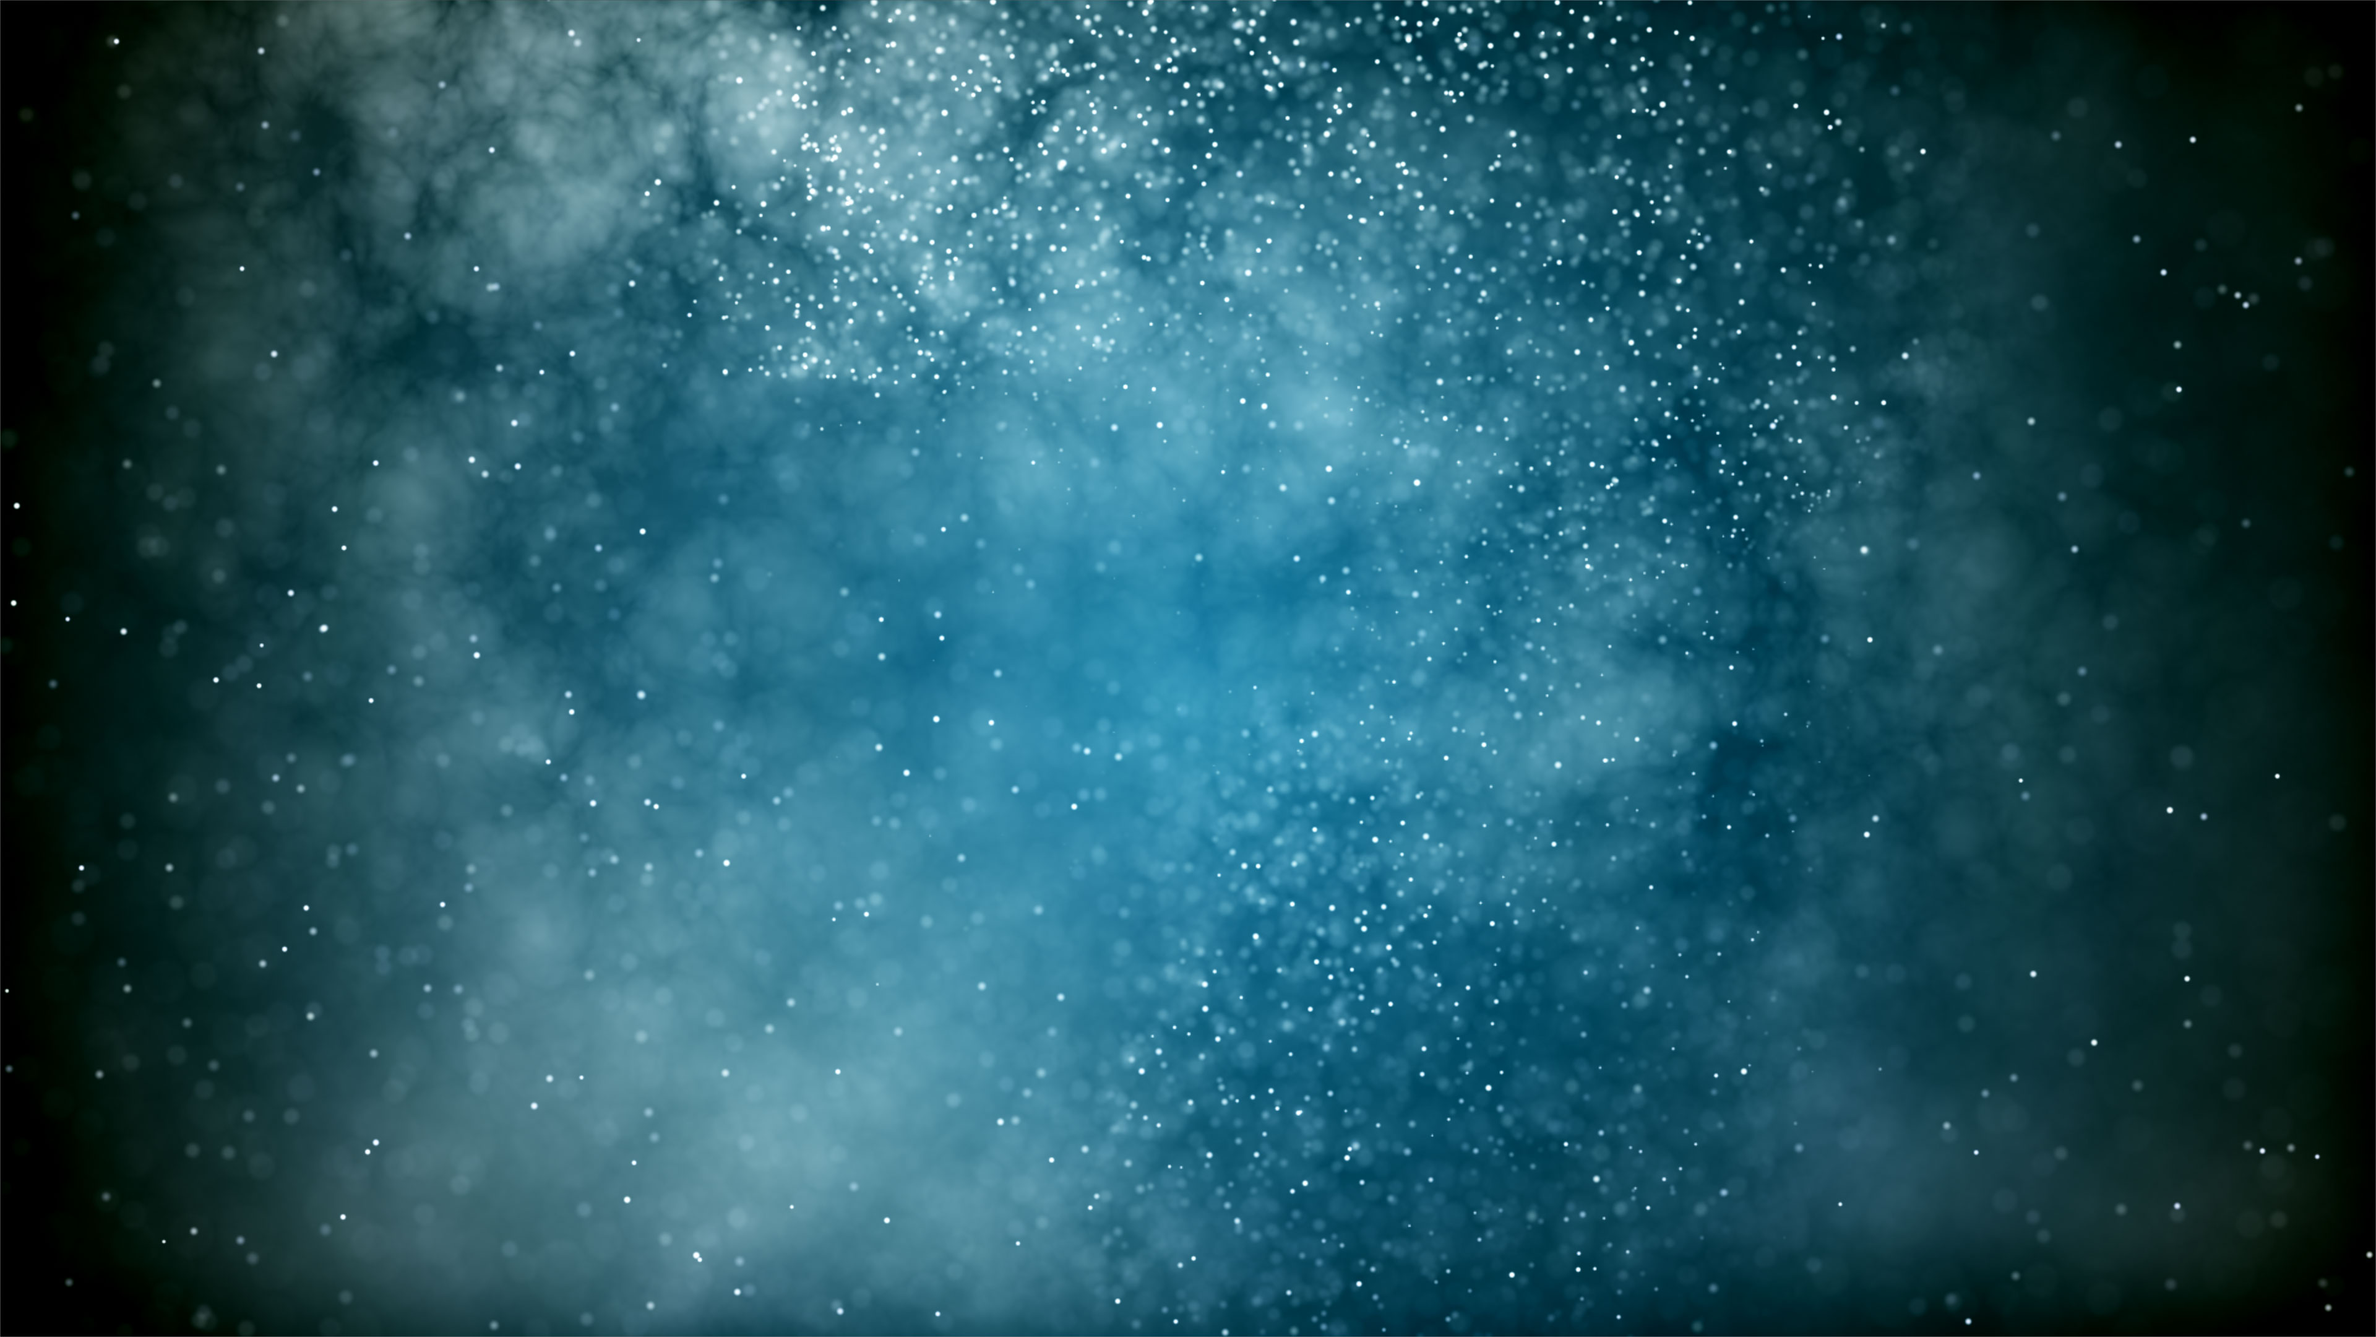
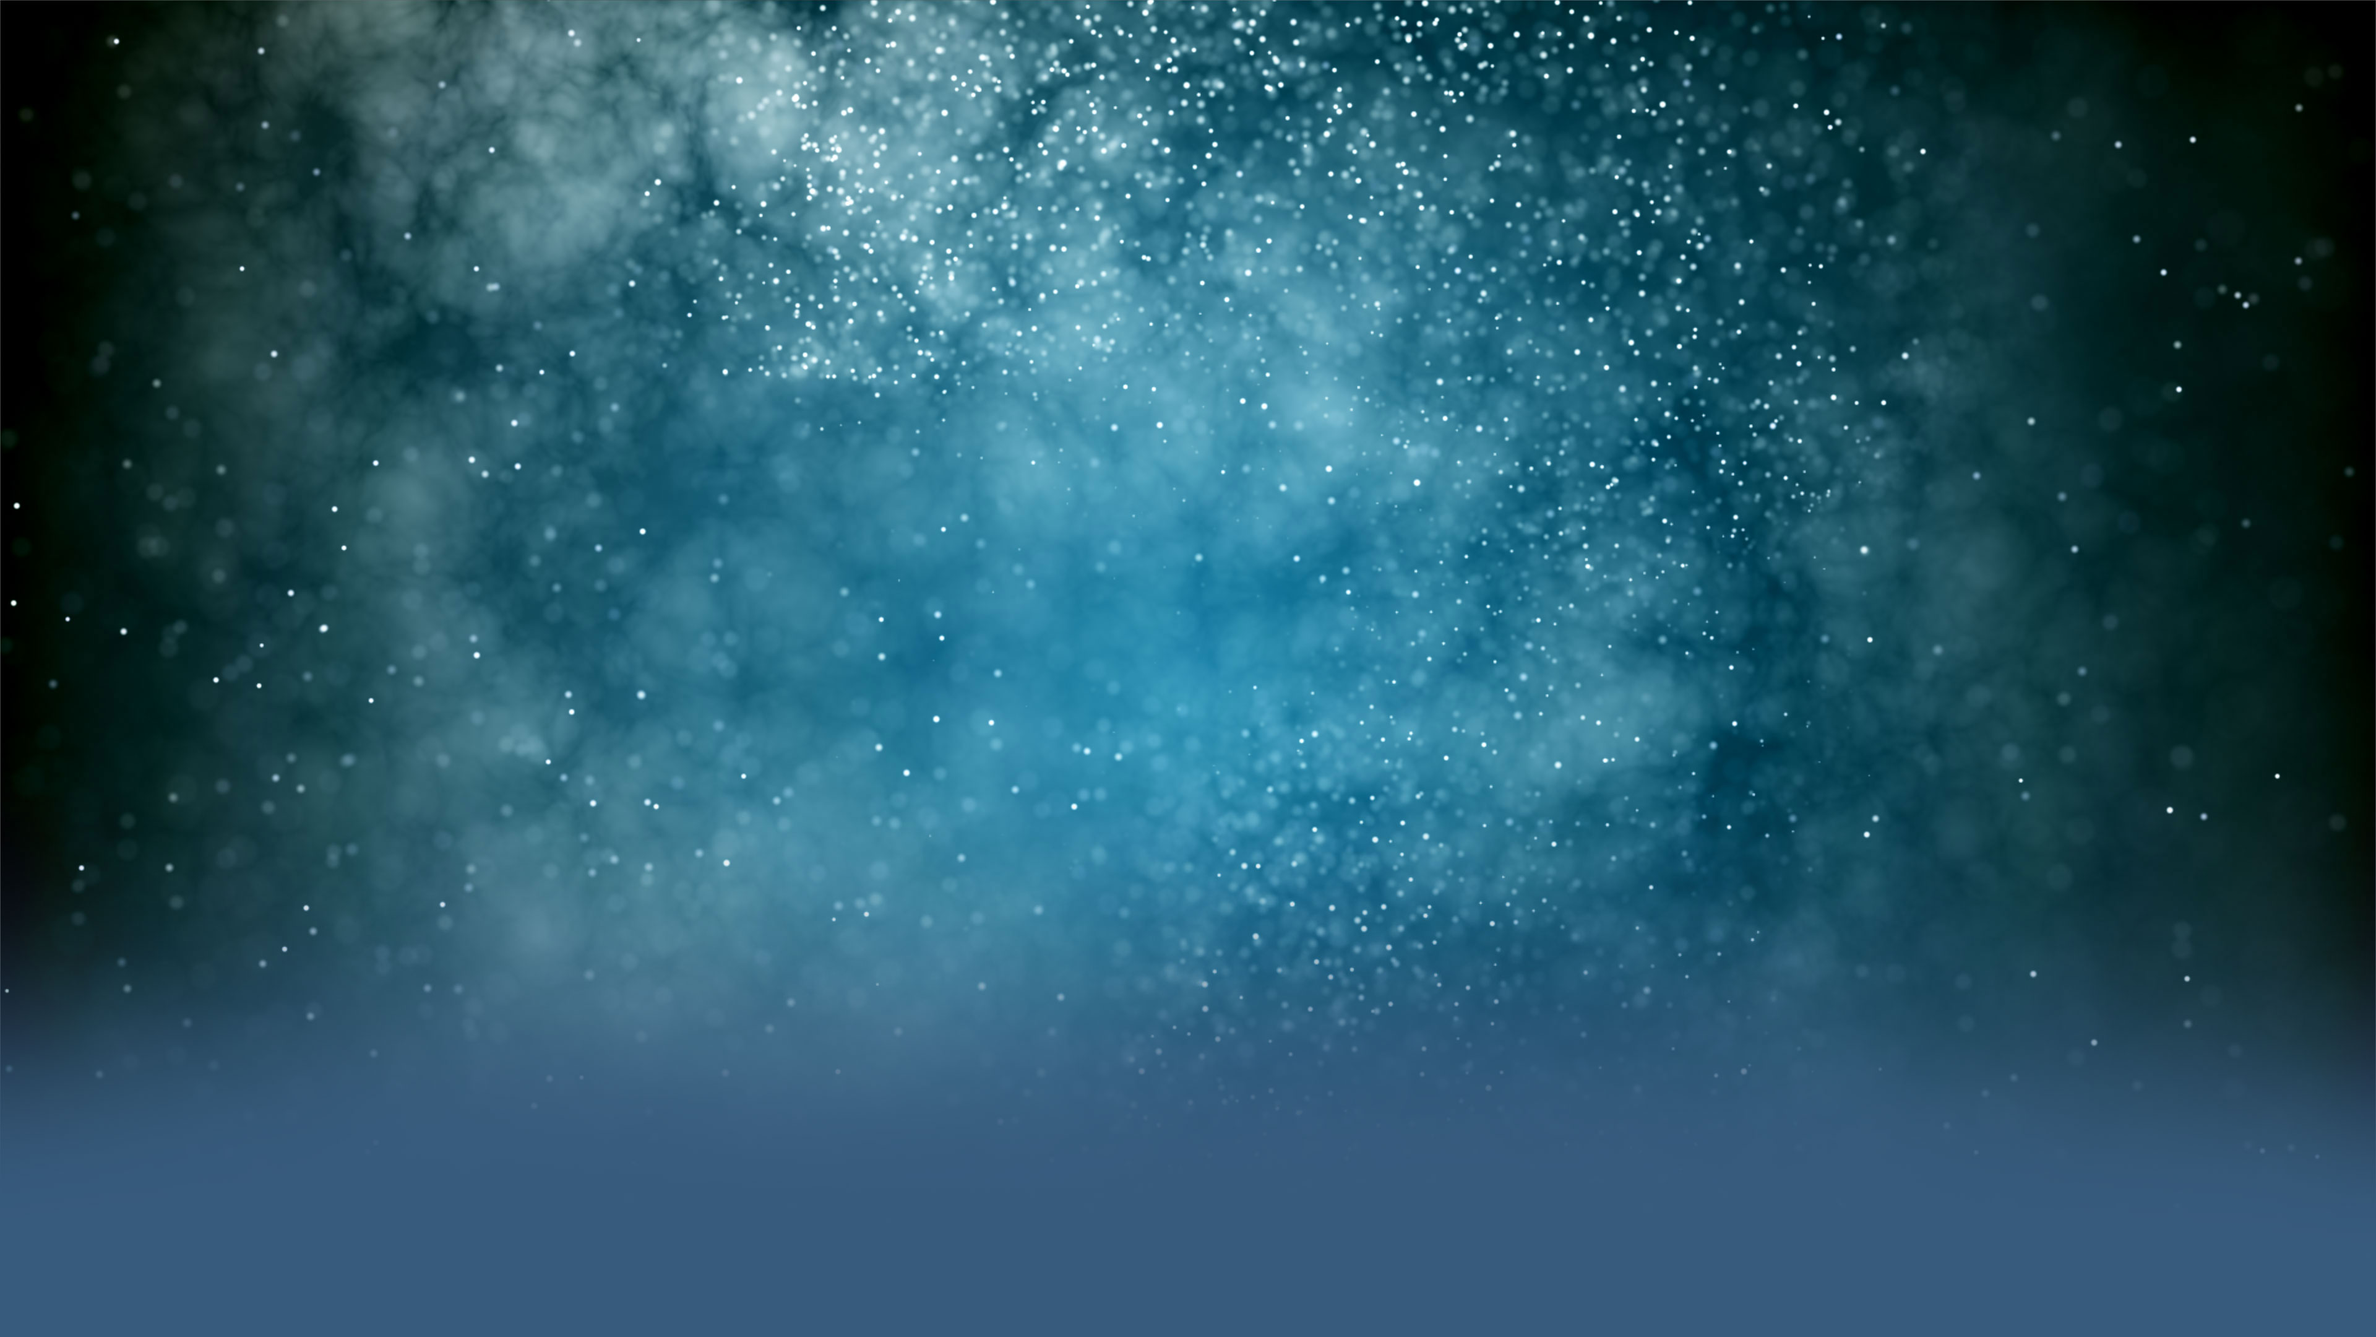
fixed a problem with the about-bg on mobile

Changed region(s): [[0.0, 0.6824, 1.0, 1.0], [0.4688, 0.7134, 0.5, 0.7444]]

diff --git a/dist/css/style.css b/dist/css/style.css
@@ -1,1 +1,1 @@
-button.btn-portfolio,main h3{font-weight:300;text-transform:uppercase}@-webkit-keyframes portfolio{from{top:410px;opacity:0;-webkit-transform:translateY(200px);transform:translateY(200px)}to{top:0;opacity:1;-webkit-transform:translateY(0);transform:translateY(0)}}@keyframes portfolio{from{top:410px;opacity:0;-webkit-transform:translateY(200px);transform:translateY(200px)}to{top:0;opacity:1;-webkit-transform:translateY(0);transform:translateY(0)}}body.modal-open{overflow:visible;padding-right:0!important}body.modal-open #about,body.modal-open #heading-img,body.modal-open #portfolio-items{-webkit-filter:blur(5px);filter:blur(5px)}button.btn-portfolio{background:#365A7D;font-family:'Hind Vadodara',sans-serif;font-size:1.5rem;padding:20px 0;border:none;border-radius:0;transition:background .4s cubic-bezier(.46,.03,.52,.96)}button.btn-portfolio:focus,button.btn-portfolio:hover{background:#4E7CA0;transition:background .4s cubic-bezier(.46,.03,.52,.96)}.no-p{padding:0!important}.no-p:first-child{padding-left:15px!important}.no-p:last-child{padding-right:15px!important}.no-m{margin:0!important}header{position:absolute;top:0;left:0;width:100%;z-index:999}header #site-logo{background:#4E7CA0;height:260px}header #site-logo .logo{height:130px;background:#365A7D;color:#fff;font-size:10rem;line-height:1;text-align:center;padding-top:20px;margin:0 -15px}header #site-logo .description{color:#fff;font-size:4.5rem;font-family:'Oleo Script',cursive;line-height:.8;text-align:center;padding:25px 0 15px}@media screen and (min-width:768px){header #site-logo{height:130px}header #site-logo .logo{margin:0}header #site-logo .description{text-align:right}}footer,main section#about .container-about figure figcaption{text-align:center;color:#fff}header.affix #site-logo{height:160px}header.affix #site-logo .logo{height:80px;font-size:6rem;padding-top:10px}header.affix #site-logo .description{font-size:2.5rem;padding:15px 0}@media screen and (min-width:768px){header.affix #site-logo{height:80px}}main #heading-img .heading-img-img img,main section#portfolio-items img{width:100%;height:auto}main{margin:200px 0 0}main h3,main h4,main h5,main p,main span{font-family:'Hind Vadodara',sans-serif}main h2{color:#fff;font-size:4.5rem;font-family:'Oleo Script',cursive;line-height:.8}main h3{font-size:1.5rem;line-height:1.4}main #heading-img .heading-img-img{margin:0 -15px}main section#portfolio-items{margin-bottom:80px}main section#portfolio-items .portfolio-item{position:relative;top:0;background:#7094AE;margin:40px 0 0;box-shadow:-8px 24px 30px -2px rgba(0,0,0,.3);transition:box-shadow .4s cubic-bezier(.46,.03,.52,.96);-webkit-animation-name:portfolio;animation-name:portfolio;-webkit-animation-duration:3s;animation-duration:3s;-webkit-animation-delay:0s;animation-delay:0s;-webkit-animation-timing-function:cubic-bezier(.165,.84,.44,1);animation-timing-function:cubic-bezier(.165,.84,.44,1)}@media screen and (min-width:768px){main section#portfolio-items .portfolio-item{margin:-75px 0 0;box-shadow:-30px 24px 30px -2px rgba(0,0,0,.3)}}main section#portfolio-items .portfolio-item figure figcaption{padding:1.5rem}main section#portfolio-items .portfolio-item figure figcaption h3{color:#fff;text-align:center;margin:0;padding:0}main section#portfolio-items .portfolio-item:focus,main section#portfolio-items .portfolio-item:hover{box-shadow:-7px 6px 10px -2px rgba(0,0,0,.4);transition:box-shadow .4s cubic-bezier(.46,.03,.52,.96)}main section#about .container-about{min-height:600px;padding:50px 0;background-image:url(../img/bg/about-bg-450-2x.jpg);background-position:center center;background-repeat:no-repeat;background-attachment:fixed;background-size:cover}@media screen and (min-width:450px){main section#about .container-about{background-image:url(../img/bg/about-bg-768-2x.jpg)}}@media screen and (min-width:768px){main section#about .container-about{background-image:url(../img/bg/about-bg-992-2x.jpg)}}@media screen and (min-width:992px){main section#about .container-about{background-image:url(../img/bg/about-bg-1200-2x.jpg)}}main section#about .container-about p.about-text{padding:50px;background:#fff;font-size:1.7rem;line-height:3rem;box-shadow:-30px 24px 30px -2px rgba(0,0,0,.3);transition:box-shadow .4s cubic-bezier(.46,.03,.52,.96)}main section#about .container-about p.about-text:hover{box-shadow:-7px 6px 10px -2px rgba(0,0,0,.4);transition:box-shadow .4s cubic-bezier(.46,.03,.52,.96)}main section#about .container-about figure{width:70%;background:#7094AE;padding:20px;margin:0 auto;box-shadow:-30px 24px 30px -2px rgba(0,0,0,.3);transition:box-shadow .4s cubic-bezier(.46,.03,.52,.96)}@media screen and (min-width:500px){main section#about .container-about figure{width:50%}}main .modal img,main section#about .container-about figure img{width:100%;height:auto}main section#about .container-about figure:hover{box-shadow:-7px 6px 10px -2px rgba(0,0,0,.4);transition:box-shadow .4s cubic-bezier(.46,.03,.52,.96)}footer a.social-icons,footer a.social-icons:hover{transition:color .4s cubic-bezier(.46,.03,.52,.96)}@media screen and (min-width:768px){main section#about .container-about figure{width:100%}main{margin-top:130px}}main .modal .modal-dialog{margin:60px auto}main .modal .modal-dialog .modal-content{border:none}main .modal .modal-dialog .modal-content .modal-header{background:#365A7D;padding:25px;border-bottom:none}main .modal .modal-dialog .modal-content .modal-header h4.modal-title{color:#fff;font-weight:300;text-transform:uppercase}main .modal .modal-dialog .modal-content .modal-header .close{float:right;font-size:50px;font-weight:700;line-height:.5;color:#fff;text-shadow:none;filter:alpha(opacity=20);opacity:1;margin-left:1.5rem}main .modal .modal-dialog .modal-content .modal-body{padding:0}main .modal .modal-dialog .modal-content .modal-body .features-description{font-size:1.6rem;padding:25px}footer{background:#7094AE}footer h1,footer h2,footer h3,footer h4,footer h5,footer p,footer span{font-family:'Hind Vadodara',sans-serif}footer p.made-with{background:#365A7D;font-size:1.5rem;padding:35px 0;margin:0}footer a.social-icons{color:#fff;font-size:4rem}footer a.social-icons:hover{color:#7094AE}footer a.social-icons .btn-social-icon{padding:70px 0}footer a.social-icons .btn-social-icon.btn-git{background:#365A7D;transition:background .4s cubic-bezier(.46,.03,.52,.96)}footer a.social-icons .btn-social-icon.btn-git:hover{background:#4E7CA0;transition:background .4s cubic-bezier(.46,.03,.52,.96)}footer a.social-icons .btn-social-icon.btn-xing{background:#7094AE;transition:background .4s cubic-bezier(.46,.03,.52,.96)}footer a.social-icons .btn-social-icon.btn-linkedin,footer a.social-icons .btn-social-icon.btn-xing:hover{background:#4E7CA0;transition:background .4s cubic-bezier(.46,.03,.52,.96)}footer a.social-icons .btn-social-icon.btn-linkedin:hover{background:#365A7D;transition:background .4s cubic-bezier(.46,.03,.52,.96)}
+button.btn-portfolio,main h3{font-weight:300;text-transform:uppercase}@-webkit-keyframes portfolio{from{top:410px;opacity:0;-webkit-transform:translateY(200px);transform:translateY(200px)}to{top:0;opacity:1;-webkit-transform:translateY(0);transform:translateY(0)}}@keyframes portfolio{from{top:410px;opacity:0;-webkit-transform:translateY(200px);transform:translateY(200px)}to{top:0;opacity:1;-webkit-transform:translateY(0);transform:translateY(0)}}body.modal-open{overflow:visible;padding-right:0!important}body.modal-open #about,body.modal-open #heading-img,body.modal-open #portfolio-items{-webkit-filter:blur(5px);filter:blur(5px)}button.btn-portfolio{background:#365A7D;font-family:'Hind Vadodara',sans-serif;font-size:1.5rem;padding:20px 0;border:none;border-radius:0;transition:background .4s cubic-bezier(.46,.03,.52,.96)}button.btn-portfolio:focus,button.btn-portfolio:hover{background:#4E7CA0;transition:background .4s cubic-bezier(.46,.03,.52,.96)}.no-p{padding:0!important}.no-p:first-child{padding-left:15px!important}.no-p:last-child{padding-right:15px!important}.no-m{margin:0!important}header{position:absolute;top:0;left:0;width:100%;z-index:999}header #site-logo{background:#4E7CA0;height:260px}header #site-logo .logo{height:130px;background:#365A7D;color:#fff;font-size:10rem;line-height:1;text-align:center;padding-top:20px;margin:0 -15px}header #site-logo .description{color:#fff;font-size:4.5rem;font-family:'Oleo Script',cursive;line-height:.8;text-align:center;padding:25px 0 15px}@media screen and (min-width:768px){header #site-logo{height:130px}header #site-logo .logo{margin:0}header #site-logo .description{text-align:right}}footer,main section#about .container-about figure figcaption{text-align:center;color:#fff}header.affix #site-logo{height:160px}header.affix #site-logo .logo{height:80px;font-size:6rem;padding-top:10px}header.affix #site-logo .description{font-size:2.5rem;padding:15px 0}@media screen and (min-width:768px){header.affix #site-logo{height:80px}}main #heading-img .heading-img-img img,main section#portfolio-items img{width:100%;height:auto}main{margin:200px 0 0}main h3,main h4,main h5,main p,main span{font-family:'Hind Vadodara',sans-serif}main h2{color:#fff;font-size:4.5rem;font-family:'Oleo Script',cursive;line-height:.8}main h3{font-size:1.5rem;line-height:1.4}main #heading-img .heading-img-img{margin:0 -15px}main section#portfolio-items{margin-bottom:80px}main section#portfolio-items .portfolio-item{position:relative;top:0;background:#7094AE;margin:40px 0 0;box-shadow:-8px 24px 30px -2px rgba(0,0,0,.3);transition:box-shadow .4s cubic-bezier(.46,.03,.52,.96);-webkit-animation-name:portfolio;animation-name:portfolio;-webkit-animation-duration:3s;animation-duration:3s;-webkit-animation-delay:0s;animation-delay:0s;-webkit-animation-timing-function:cubic-bezier(.165,.84,.44,1);animation-timing-function:cubic-bezier(.165,.84,.44,1)}@media screen and (min-width:768px){main section#portfolio-items .portfolio-item{margin:-75px 0 0;box-shadow:-30px 24px 30px -2px rgba(0,0,0,.3)}}main section#portfolio-items .portfolio-item figure figcaption{padding:1.5rem}main section#portfolio-items .portfolio-item figure figcaption h3{color:#fff;text-align:center;margin:0;padding:0}main section#portfolio-items .portfolio-item:focus,main section#portfolio-items .portfolio-item:hover{box-shadow:-7px 6px 10px -2px rgba(0,0,0,.4);transition:box-shadow .4s cubic-bezier(.46,.03,.52,.96)}main section#about .container-about{min-height:600px;padding:50px 0;background-image:url(../img/bg/about-bg-450-2x.jpg);background-color:#365A7D;background-position:top center;background-repeat:no-repeat;background-attachment:fixed;background-size:cover}@media screen and (min-width:450px){main section#about .container-about{background-image:url(../img/bg/about-bg-768-2x.jpg)}}@media screen and (min-width:768px){main section#about .container-about{background-image:url(../img/bg/about-bg-992-2x.jpg)}}@media screen and (min-width:992px){main section#about .container-about{background-image:url(../img/bg/about-bg-1200-2x.jpg)}}main section#about .container-about p.about-text{padding:50px;background:#fff;font-size:1.7rem;line-height:3rem;box-shadow:-30px 24px 30px -2px rgba(0,0,0,.3);transition:box-shadow .4s cubic-bezier(.46,.03,.52,.96)}main section#about .container-about p.about-text:hover{box-shadow:-7px 6px 10px -2px rgba(0,0,0,.4);transition:box-shadow .4s cubic-bezier(.46,.03,.52,.96)}main section#about .container-about figure{width:70%;background:#7094AE;padding:20px;margin:0 auto;box-shadow:-30px 24px 30px -2px rgba(0,0,0,.3);transition:box-shadow .4s cubic-bezier(.46,.03,.52,.96)}@media screen and (min-width:500px){main section#about .container-about figure{width:50%}}main .modal img,main section#about .container-about figure img{width:100%;height:auto}main section#about .container-about figure:hover{box-shadow:-7px 6px 10px -2px rgba(0,0,0,.4);transition:box-shadow .4s cubic-bezier(.46,.03,.52,.96)}footer a.social-icons,footer a.social-icons:hover{transition:color .4s cubic-bezier(.46,.03,.52,.96)}@media screen and (min-width:768px){main section#about .container-about figure{width:100%}main{margin-top:130px}}main .modal .modal-dialog{margin:60px auto}main .modal .modal-dialog .modal-content{border:none}main .modal .modal-dialog .modal-content .modal-header{background:#365A7D;padding:25px;border-bottom:none}main .modal .modal-dialog .modal-content .modal-header h4.modal-title{color:#fff;font-weight:300;text-transform:uppercase}main .modal .modal-dialog .modal-content .modal-header .close{float:right;font-size:50px;font-weight:700;line-height:.5;color:#fff;text-shadow:none;filter:alpha(opacity=20);opacity:1;margin-left:1.5rem}main .modal .modal-dialog .modal-content .modal-body{padding:0}main .modal .modal-dialog .modal-content .modal-body .features-description{font-size:1.6rem;padding:25px}footer{background:#7094AE}footer h1,footer h2,footer h3,footer h4,footer h5,footer p,footer span{font-family:'Hind Vadodara',sans-serif}footer p.made-with{background:#365A7D;font-size:1.5rem;padding:35px 0;margin:0}footer a.social-icons{color:#fff;font-size:4rem}footer a.social-icons:hover{color:#7094AE}footer a.social-icons .btn-social-icon{padding:70px 0}footer a.social-icons .btn-social-icon.btn-git{background:#365A7D;transition:background .4s cubic-bezier(.46,.03,.52,.96)}footer a.social-icons .btn-social-icon.btn-git:hover{background:#4E7CA0;transition:background .4s cubic-bezier(.46,.03,.52,.96)}footer a.social-icons .btn-social-icon.btn-xing{background:#7094AE;transition:background .4s cubic-bezier(.46,.03,.52,.96)}footer a.social-icons .btn-social-icon.btn-linkedin,footer a.social-icons .btn-social-icon.btn-xing:hover{background:#4E7CA0;transition:background .4s cubic-bezier(.46,.03,.52,.96)}footer a.social-icons .btn-social-icon.btn-linkedin:hover{background:#365A7D;transition:background .4s cubic-bezier(.46,.03,.52,.96)}

diff --git a/gulpfile.js b/gulpfile.js
@@ -28,7 +28,7 @@ gulp.task('bg-img', function(){
         width: 1920,
         height: 550,
       }],
-      '*.jpg': [{
+      'heading-img.jpg': [{
         quality: 70,
         width: 450,
         height: 350,
@@ -76,6 +76,33 @@ gulp.task('bg-img', function(){
         width: 2400,
         height: 900,
         crop: true,
+        upscale: true,
+        suffix: '-1200-2x'
+      }],
+      'about-bg.jpg': [{
+        quality: 70,
+        width: 900,
+        height: 700,
+        crop: false,
+        suffix: '-450-2x'
+      },{
+        quality: 70,
+        width: 1536,
+        height: 900,
+        crop: false,
+        suffix: '-768-2x'
+      },{
+        quality: 70,
+        width: 1984,
+        height: 900,
+        crop: false,
+        upscale: true,
+        suffix: '-992-2x'
+      },{
+        quality: 70,
+        width: 2400,
+        height: 900,
+        crop: false,
         upscale: true,
         suffix: '-1200-2x'
       }]

diff --git a/src/less/style.less b/src/less/style.less
@@ -183,7 +183,8 @@ main {
       min-height: 600px;
       padding: 50px 0;
       background-image: url(../img/bg/about-bg-450-2x.jpg);
-      background-position: center center;
+      background-color: @main-dark;
+      background-position: top center;
       background-repeat: no-repeat;
       background-attachment: fixed;
       background-size: cover;
